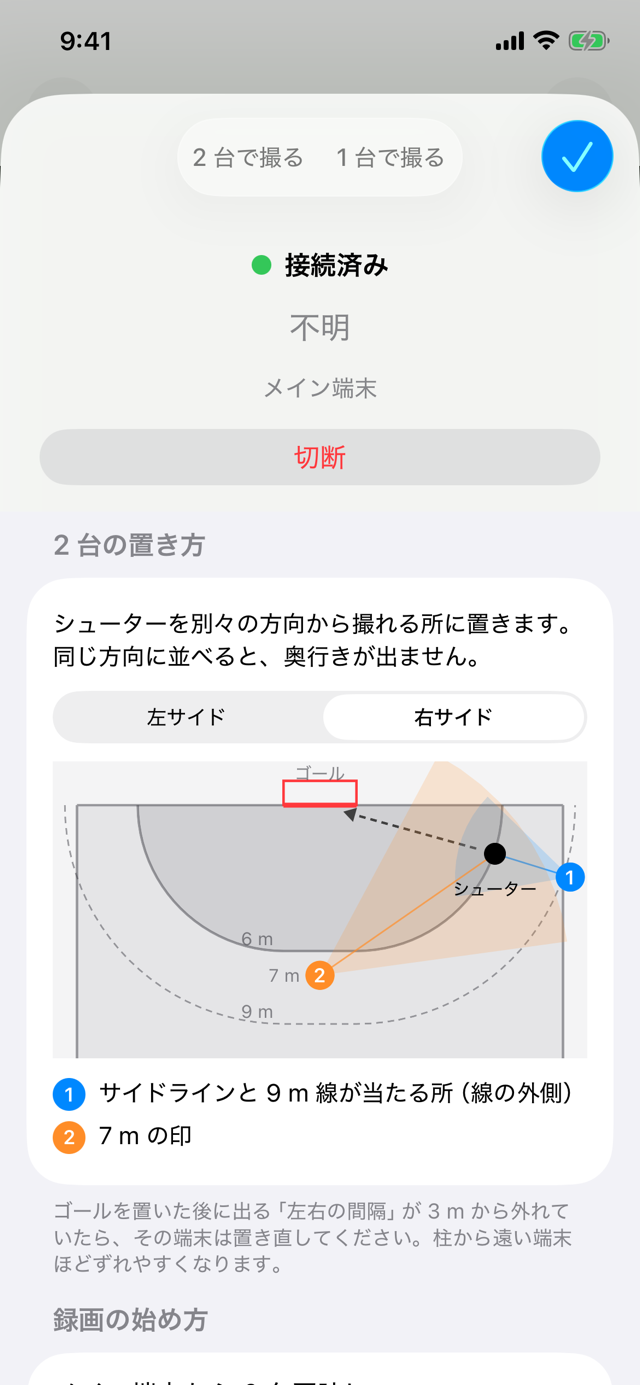
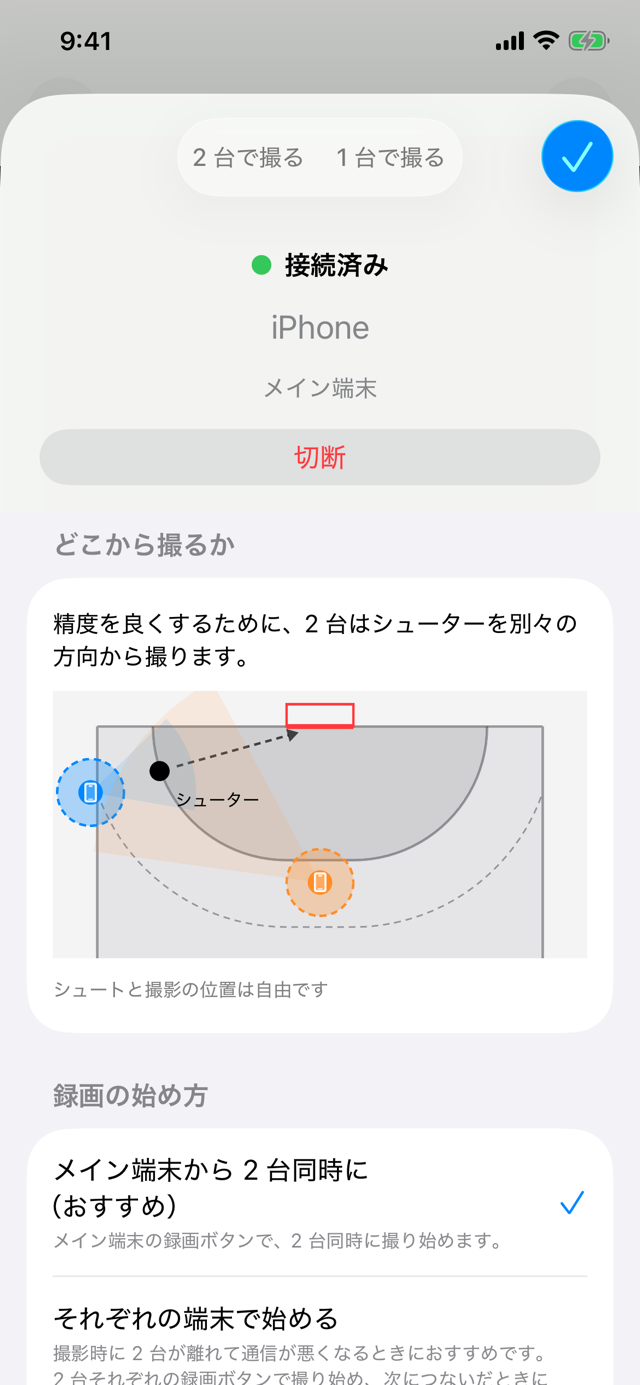
fix: 撮り方ガイドのどこから撮るかを左サイドの例に揃え、接続の画面と図のスクショを差し替える（handball-project#486）
- アプリの言い方（見出し「どこから撮るか」・別々の方向から撮る理由・位置は自由）に揃えた
- 接続の画面（録画の始め方がつないだ後だけになった）と、どこから撮るかの図のスクショを差し替え、手順 4 の枠を合わせた

Claude-Session: https://claude.ai/code/session_01L1u67NbYgyR2jUzg2BP7vR

diff --git a/handball-form-analyzer/guide/index.html b/handball-form-analyzer/guide/index.html
@@ -37,11 +37,11 @@
         <li>シューターと、撮る人（2 台を台や三脚に置けば 1 人でも撮れます）</li>
     </ul>
 
-    <h2>2 台の置き方</h2>
+    <h2>どこから撮るか</h2>
     <ul>
-        <li>2 台とも、ゴールの前（コート側）に置く</li>
-        <li>シューターを<strong>別々の方向から</strong>撮る。同じ方向に並べると奥行きが出ません。2 台をつなぐと、アプリが置き方の例を図で出します</li>
-        <li>サイドシュートの例: 1 台はサイドラインと 9 m 線が当たる所（線の外側）、もう 1 台は 7 m の印</li>
+        <li>2 台とも、ゴールの前（コート側）から撮る</li>
+        <li>精度を良くするために、シューターを<strong>別々の方向から</strong>撮る。シュートと撮影の位置は自由です。2 台をつなぐと、アプリが例を図で出します</li>
+        <li>左サイドのシュートの例: 1 台は左のサイドラインの外（9 m 線がサイドラインに当たるあたり）、もう 1 台はゴール正面の 7 m のあたり。だいたいその場所で大丈夫です</li>
         <li>シューターの体全体が、腕を振り上げたところまで入る距離にする</li>
         <li>撮っている間は動かさない</li>
     </ul>
@@ -67,7 +67,7 @@
             </div></div>
             <div class="screens-slide"><div class="guide-slide">
                 <div class="shot">
-                    <img src="images/03-connection-sheet.png" alt="接続の画面。周辺のデバイスと録画の始め方" width="640" height="1385" loading="lazy">
+                    <img src="images/03-connection-sheet.png" alt="接続の画面。周辺のデバイス" width="640" height="1385" loading="lazy">
                     <span class="shot-label" style="left: 50%; top: 30.5%;">↓ もう 1 台が出たら押す</span>
                     <span class="shot-box" style="left: 4.5%; top: 35.6%; width: 91%; height: 6.2%;"></span>
                 </div>
@@ -75,13 +75,13 @@
             </div></div>
             <div class="screens-slide"><div class="guide-slide">
                 <div class="shot">
-                    <img src="images/04-connected-placement.png" alt="つないだ後の接続の画面。2 台の置き方の図" width="640" height="1385" loading="lazy">
-                    <span class="shot-label" style="left: 64%; top: 38.5%;">↓ 図のように 2 台を置く</span>
-                    <span class="shot-box" style="left: 4.5%; top: 54%; width: 91%; height: 30%;"></span>
+                    <img src="images/04-connected-placement.png" alt="つないだ後の接続の画面。どこから撮るかの図" width="640" height="1385" loading="lazy">
+                    <span class="shot-label" style="left: 64%; top: 38.5%;">↓ 図のように 2 台で撮る</span>
+                    <span class="shot-box" style="left: 4.5%; top: 49%; width: 91%; height: 24%;"></span>
                     <span class="shot-box" style="left: 85%; top: 8.7%; width: 11%; height: 5%; border-radius: 999px;"></span>
-                    <span class="shot-label" style="left: 80%; top: 15%;">↑ 置いたら閉じる</span>
+                    <span class="shot-label" style="left: 80%; top: 15%;">↑ 決まったら閉じる</span>
                 </div>
-                <p class="guide-caption"><span class="step">4</span>つながると「2 台の置き方」が出ます。シューターを別々の方向から撮れるよう、図のように 2 台を置いてから、右上の ✓ で閉じます</p>
+                <p class="guide-caption"><span class="step">4</span>つながると「どこから撮るか」が出ます。図のように、2 台がシューターを別々の方向から撮れる所へ移ってから、右上の ✓ で閉じます</p>
             </div></div>
             <div class="screens-slide"><div class="guide-slide">
                 <div class="shot">
@@ -203,7 +203,7 @@
     <h2>もっと詳しく</h2>
 
     <details>
-        <summary>離して置くと通信が悪いとき（録画の始め方）</summary>
+        <summary>離れて撮ると通信が悪いとき（録画の始め方）</summary>
         <p>接続の画面の「録画の始め方」で「それぞれの端末で始める」を選ぶと、2 台それぞれの録画ボタンで撮れます。同時に押す必要はありませんが、2 台とも録画を始めてからシュートを打ってください。つながっていない間に撮っても、次に 2 台をつないだときに、撮った時間が重なる録画が 1 本にまとまります。切り替えは 2 台をつないでいる間にします（2 台そろって切り替わります）。</p>
     </details>
 
@@ -221,7 +221,7 @@
         <ul>
             <li><strong>「2 台が同じ人を捉えていません」</strong>: シューターが 2 台の両方の動画に映っている瞬間を選んでください</li>
             <li><strong>「3D の精度が低い可能性があります」</strong>: フレームに重なった骨格が 2 台とも同じ人に合っているかを見てください。次に撮るときは、2 台ともゴールを置き直し、赤いゴールが実物と重なっているかを確かめてください</li>
-            <li><strong>「2 台がほぼ同じ方向から撮っているため…」</strong>: 次に撮るときは、接続の画面の「2 台の置き方」の図のように、シューターから見て 2 台を別々の方向に置いてください</li>
+            <li><strong>「2 台がほぼ同じ方向から撮っているため…」</strong>: 次に撮るときは、接続の画面の「どこから撮るか」の図のように、シューターから見て別々の方向から撮ってください</li>
             <li><strong>「2 台とも最新にしてください」</strong>: 2 台のアプリのバージョンが違います。2 台とも最新にしてください</li>
         </ul>
         <p>ほかに困ったときは、<a href="../support/">サポート</a> の「よくある質問」をご覧ください。</p>
